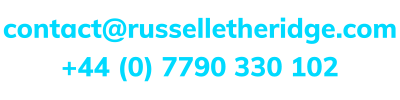
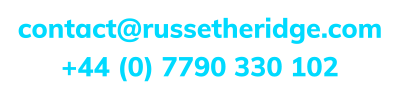
Obfuscate email address

Changed region(s): [[0.0, 0.15, 0.99, 0.45]]

diff --git a/public/js/site.js b/public/js/site.js
@@ -28403,3 +28403,7 @@ var addEvent = function(object, type, callback) {
         object["on"+type] = callback;
     }
 };
+
+var mail2 = function(name, dom1, dom2, tld, link) {
+    document.location=('mailto:' + name + '@' + dom1 + dom2 + '.' + tld);
+}

diff --git a/resources/assets/js/bee.js b/resources/assets/js/bee.js
@@ -62,3 +62,7 @@ var addEvent = function(object, type, callback) {
         object["on"+type] = callback;
     }
 };
+
+var mail2 = function(name, dom1, dom2, tld, link) {
+    document.location=('mailto:' + name + '@' + dom1 + dom2 + '.' + tld);
+}

diff --git a/resources/views/pages/home.blade.php b/resources/views/pages/home.blade.php
@@ -60,7 +60,9 @@
         <div class="col-xs-12 col-sm-12 col-md-12 col-lg-12">
             <p>Have a project in mind, or just want to say hi?</p>
             <p>I’d love to hear from you!</p>
-            <p><img class="col-xs-12 col-sm-12 col-md-12 col-lg-12" src="img/emailNumImage.png" title=""></p>
+            <p>
+                <a href="javascript: mail2('contact','russ','etheridge','com')"><img class="col-xs-12 col-sm-12 col-md-12 col-lg-12" src="img/emailNumImage.png" title=""></a>
+            </p>
             <p class="center-text">Follow me!</p>
             <p class="center-text"><a target="_blank" href="https://dribbble.com/russ_ether"><img src="img/social/dribble.png" class="social-icon" title="Share on dribble" /></a><a target="_blank" href="https://www.facebook.com/profile.php?id=100013591591149"><img src="img/social/facebook.png" class="social-icon" title="Share on facebook" /></a><a target="_blank" href="https://www.instagram.com/russ_ether/"><img src="img/social/instagram.png" class="social-icon" title="Share on instagram" /></a><br><a target="_blank" href="https://www.linkedin.com/in/russether"><img src="img/social/linkedin.png" class="social-icon" title="Share on linkedin" /></a><a target="_blank" href="https://twitter.com/russ_ether"><img src="img/social/twitter.png" class="social-icon" title="Share on twitter" /></a><a target="_blank" href="https://vimeo.com/russether"><img src="img/social/vimeo.png" class="social-icon" title="Share on vimeo" /></a></p>
         </div>
